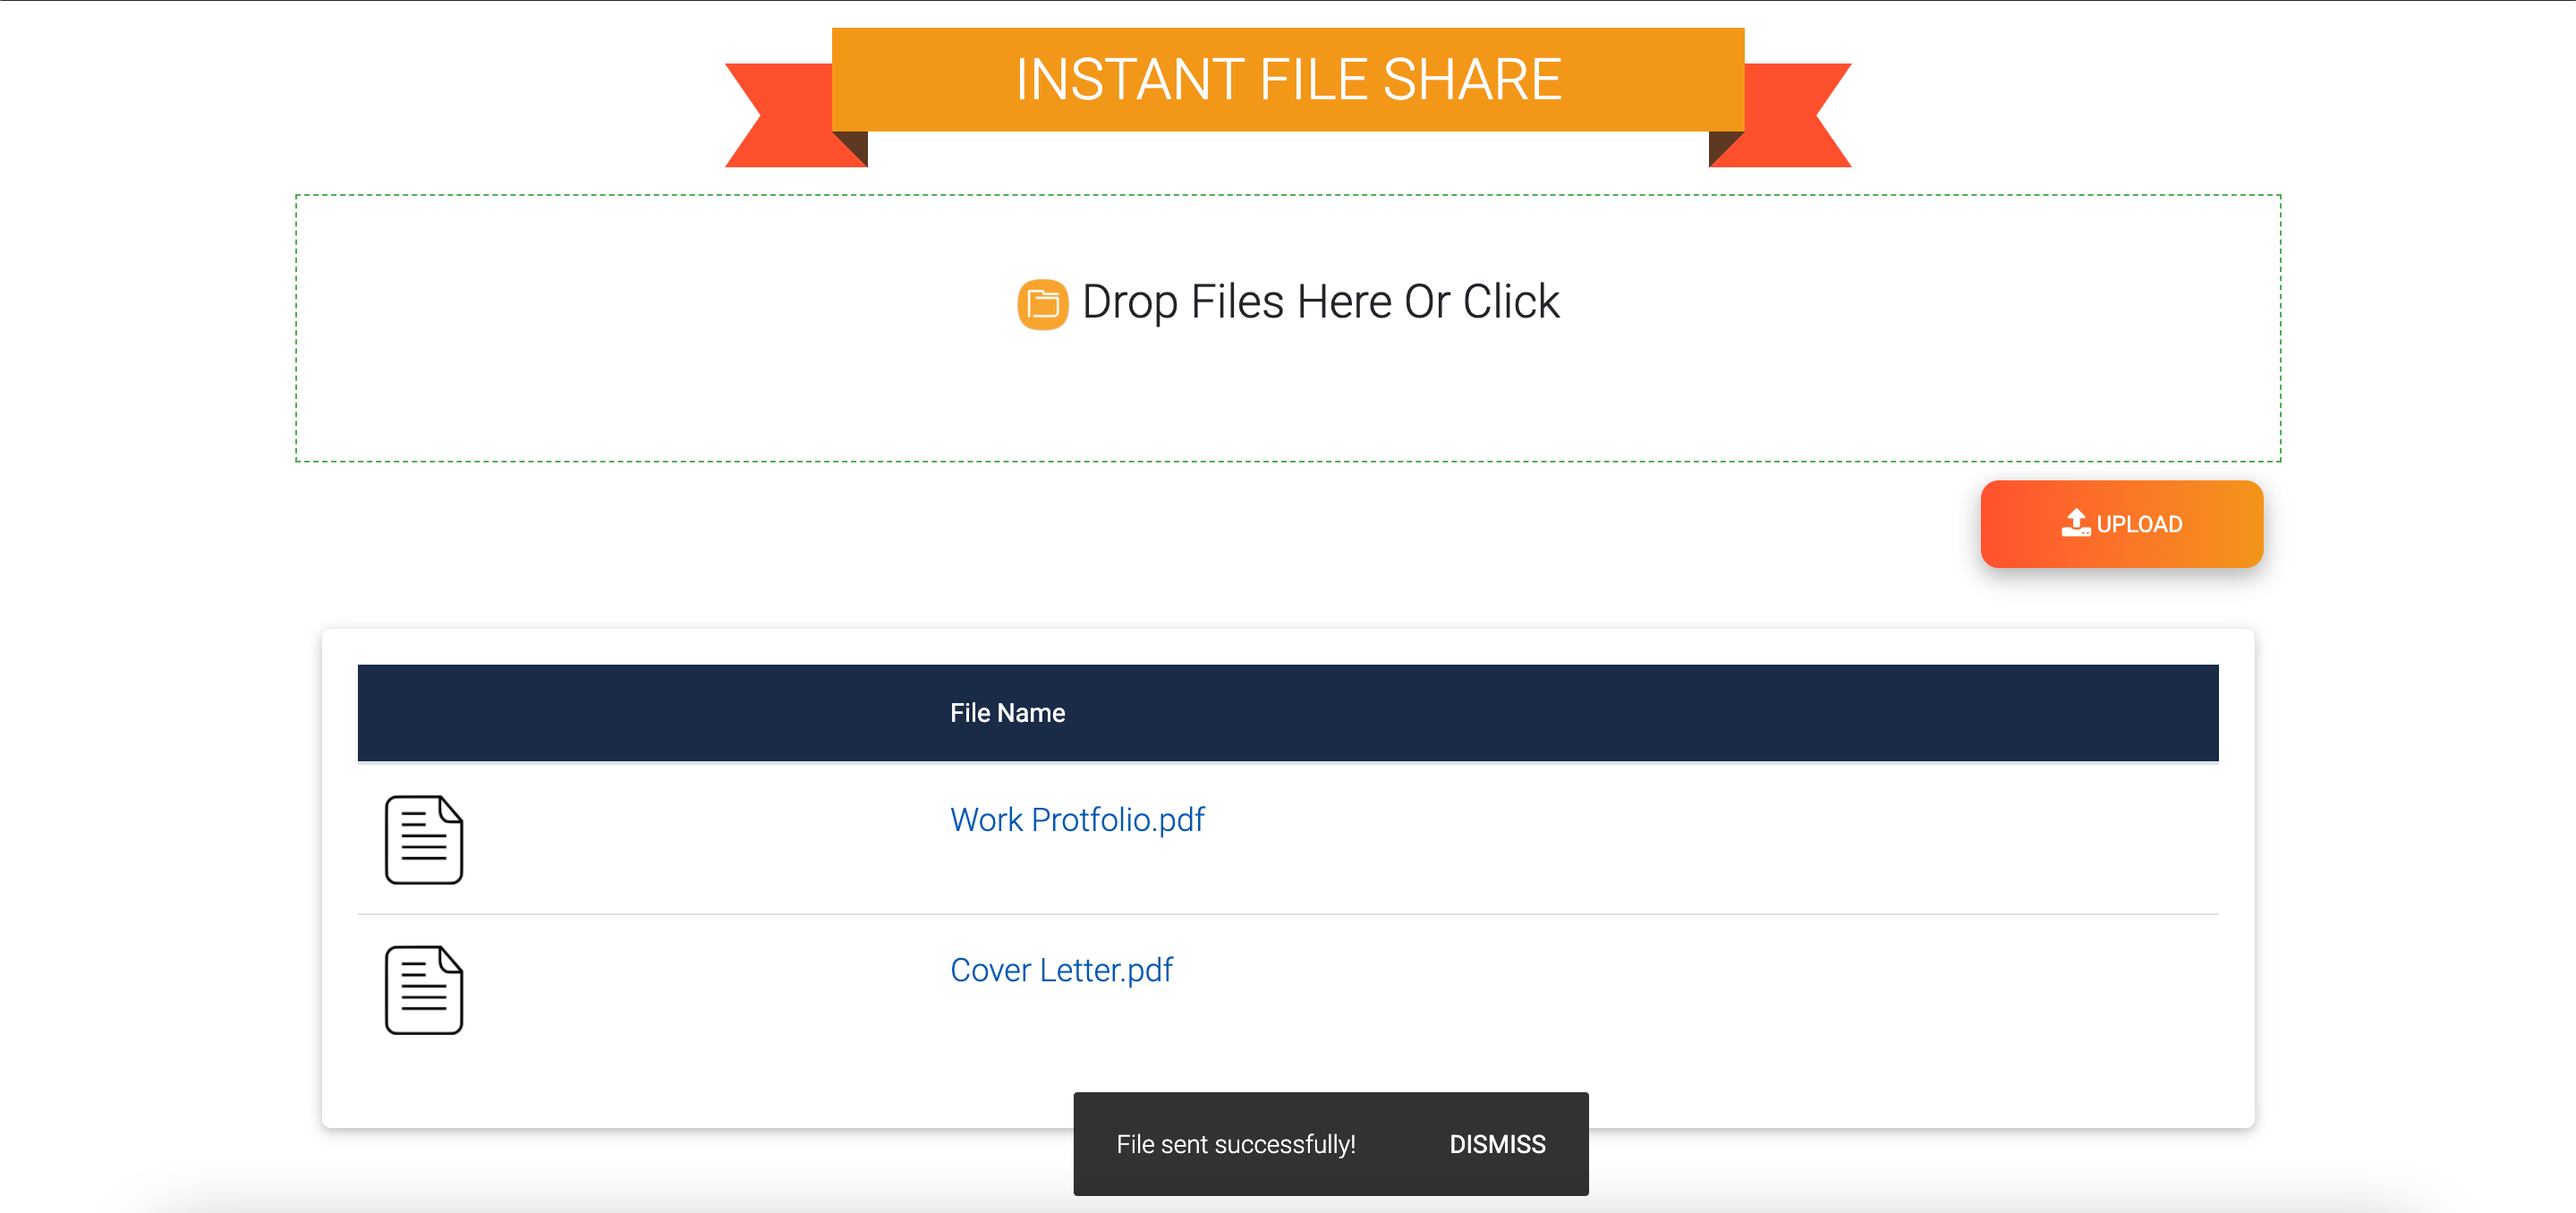
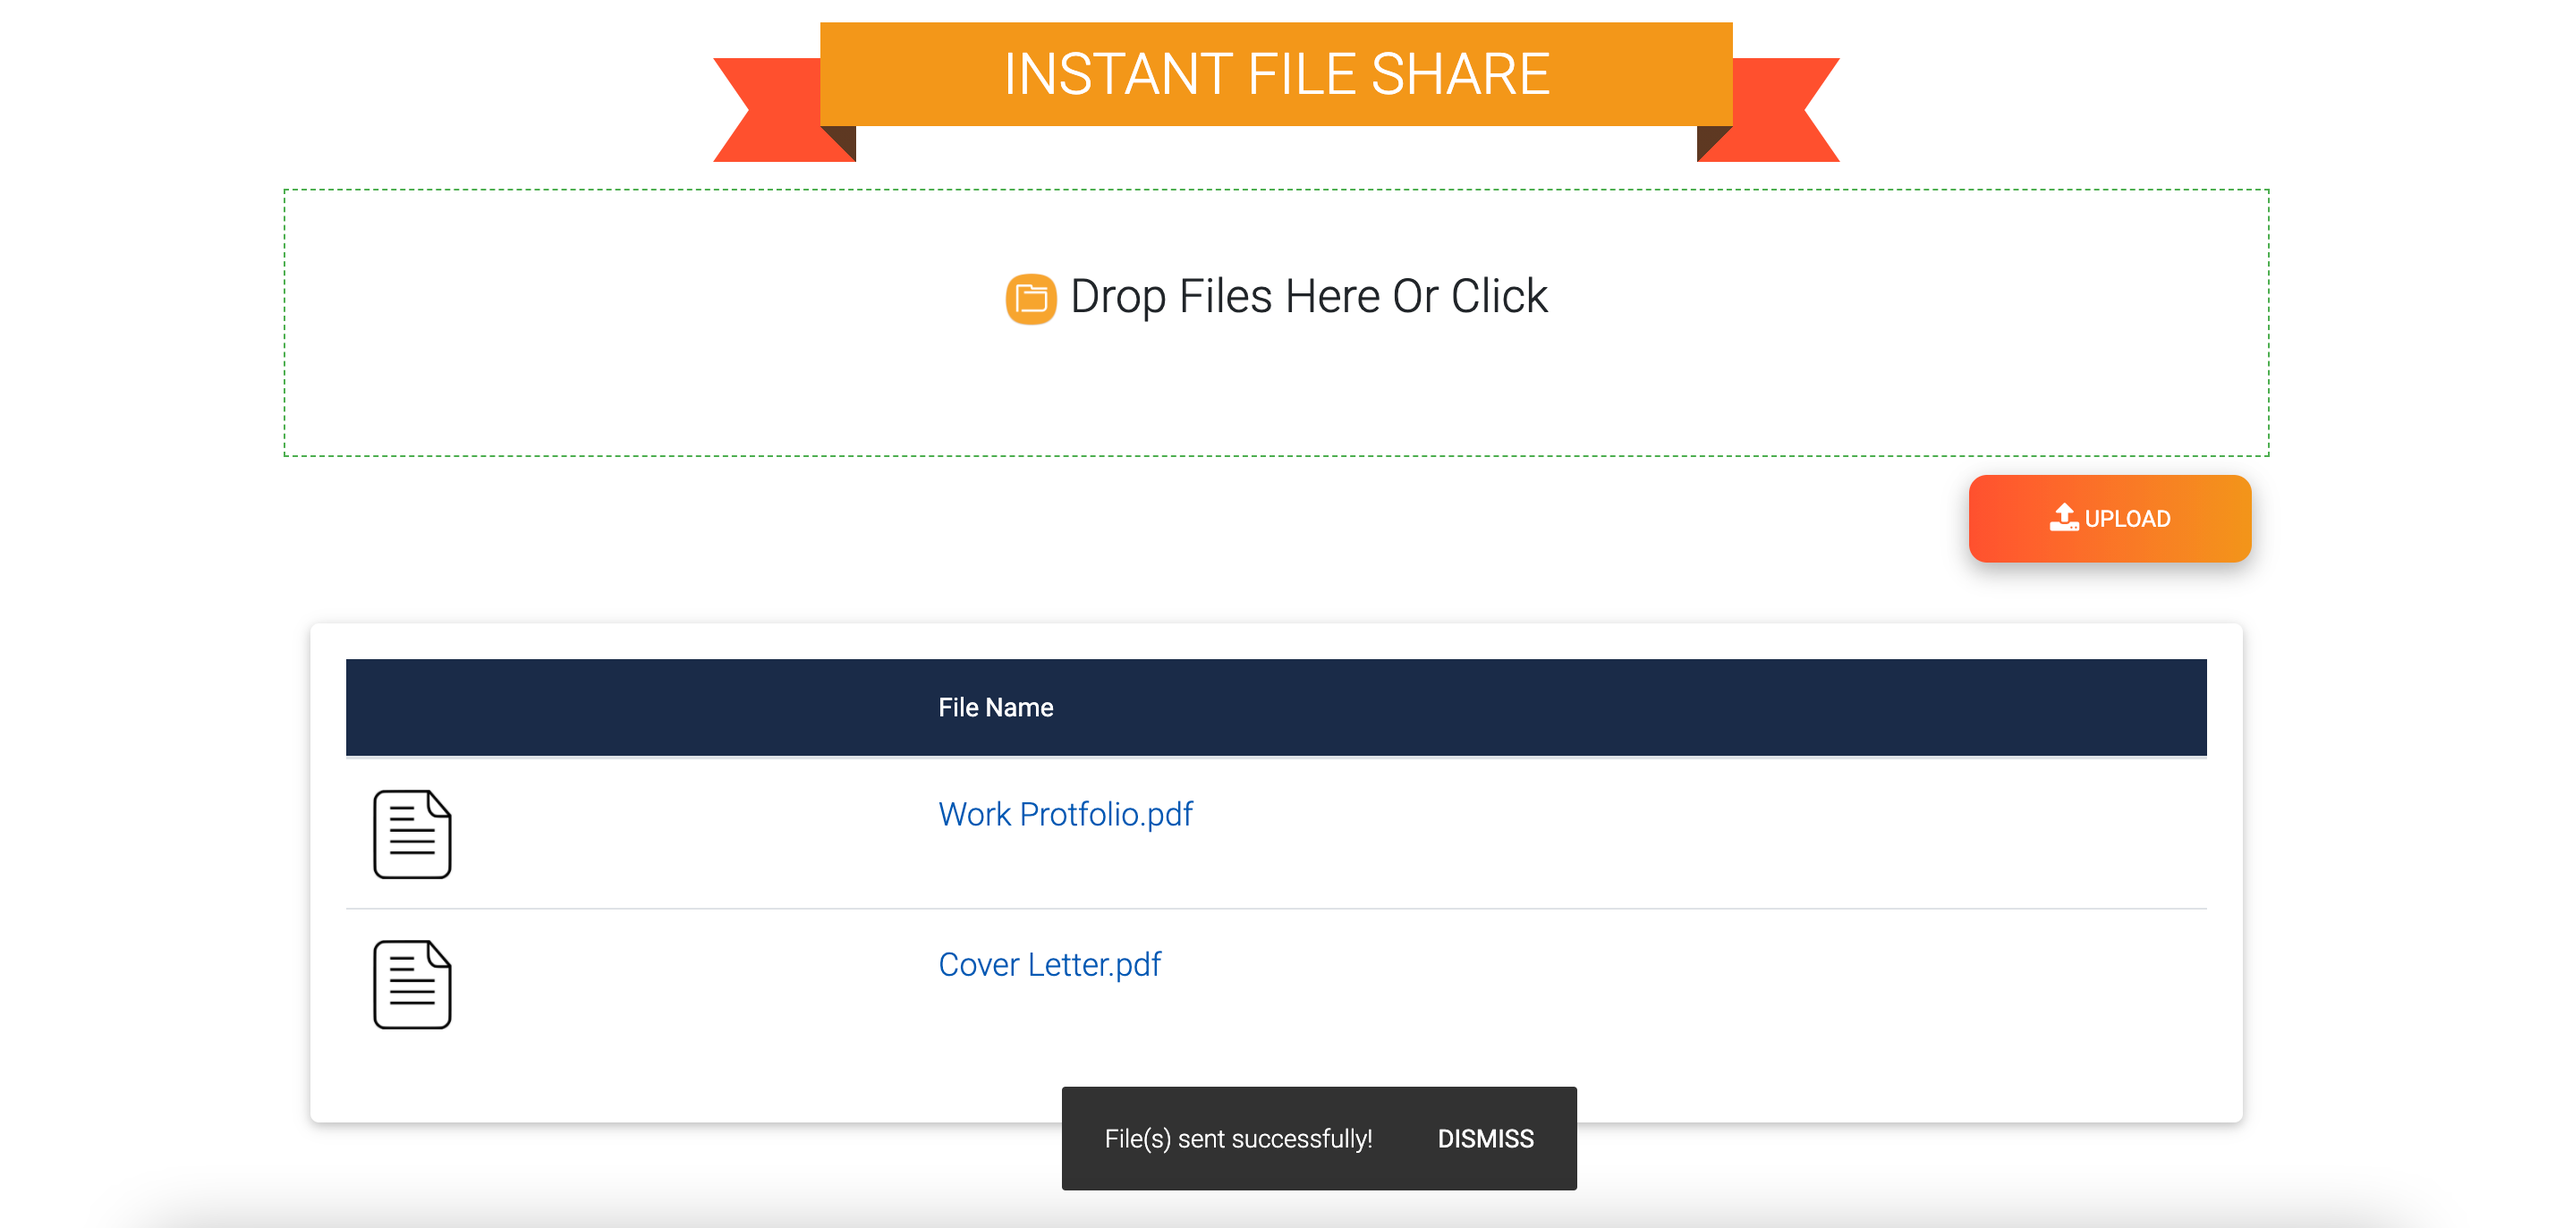
Text changes and image update

diff --git a/app/Http/Controllers/ManageFileController.php b/app/Http/Controllers/ManageFileController.php
@@ -41,11 +41,11 @@ class ManageFileController extends Controller
             }
         }
         if(count($file_paths)){
-            $send_response = ['status_code'=>1,'status_text'=>'File sent successfully!','data'=>$file_paths,'mid'=>bin2hex(time().random_bytes(5))];
+            $send_response = ['status_code'=>1,'status_text'=>'File(s) sent successfully!','data'=>$file_paths,'mid'=>bin2hex(time().random_bytes(5))];
             echo json_encode($send_response);
             event(new fileSendMessage($send_response));
         }else{
-            echo json_encode(['status_code'=>0,'status_text'=>'File upload failed']);
+            echo json_encode(['status_code'=>0,'status_text'=>'File(s) upload failed']);
         }
     }
 }

diff --git a/resources/views/home.blade.php b/resources/views/home.blade.php
@@ -274,7 +274,7 @@
         $('#filecount').val(filecount);
         if (newmsg) {
             Snackbar.show({
-                text: 'New file received',
+                text: 'New file(s) received',
                 showAction: true,
                 pos: 'bottom-center',
                 actionTextColor: '#fff'

diff --git a/README.md b/README.md
@@ -15,7 +15,7 @@ User 2 receives files instantly on their end
 
 - **[Laravel Websockets](https://beyondco.de/docs/laravel-websockets/getting-started/introduction)**
 - **[Laravel Echo](https://laravel.com/docs/8.x/broadcasting)**
-- **[Bootstrap & Dropzone js]**
+- **Bootstrap & Dropzone js**
 
 ## How To Setup
 
@@ -31,4 +31,4 @@ For starting WebSocket server:
 ```bash
 php artisan websocket:serve
 ```
-Open the app and start Sharing
+## Open the app and start Sharing
